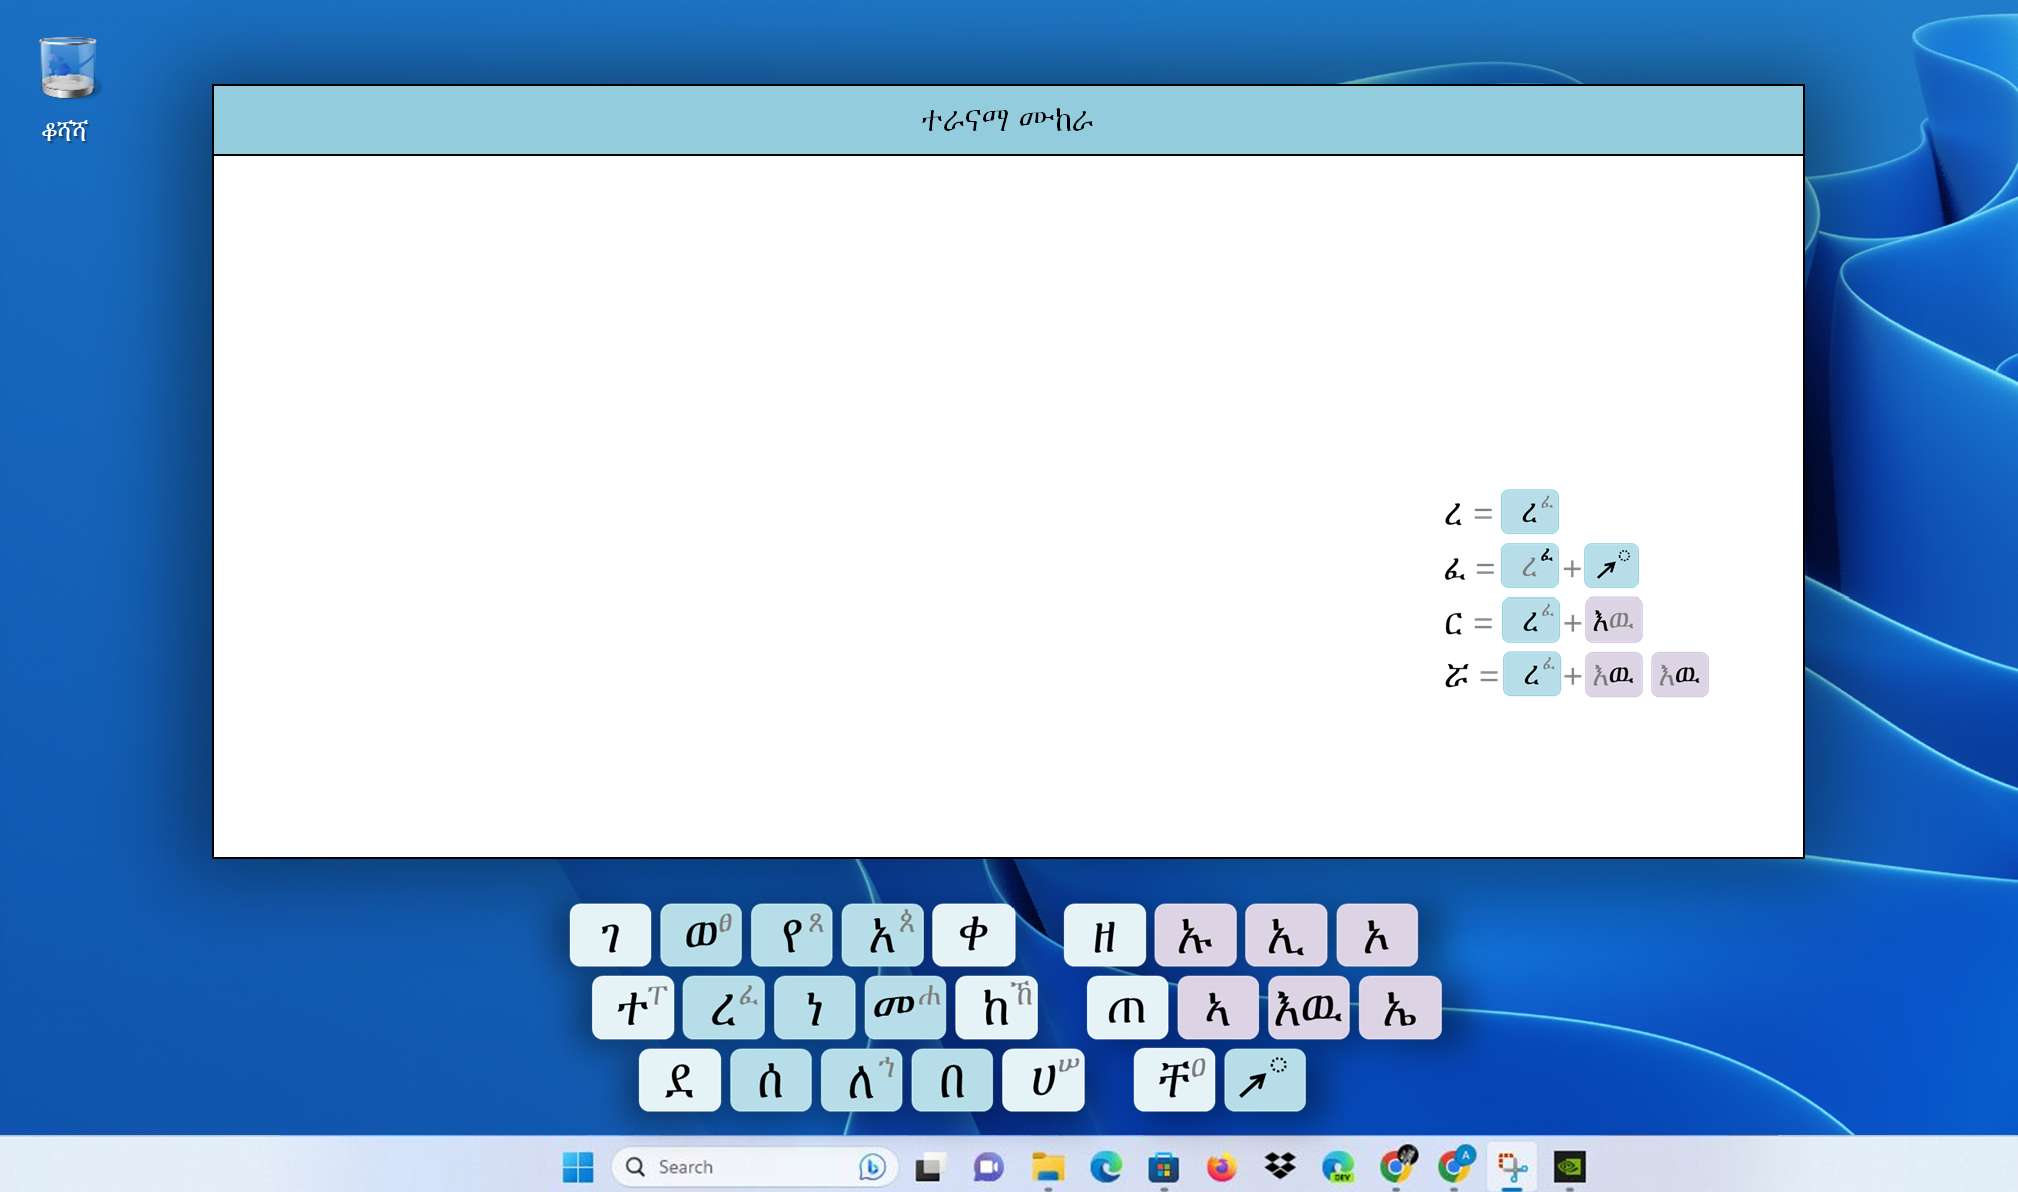
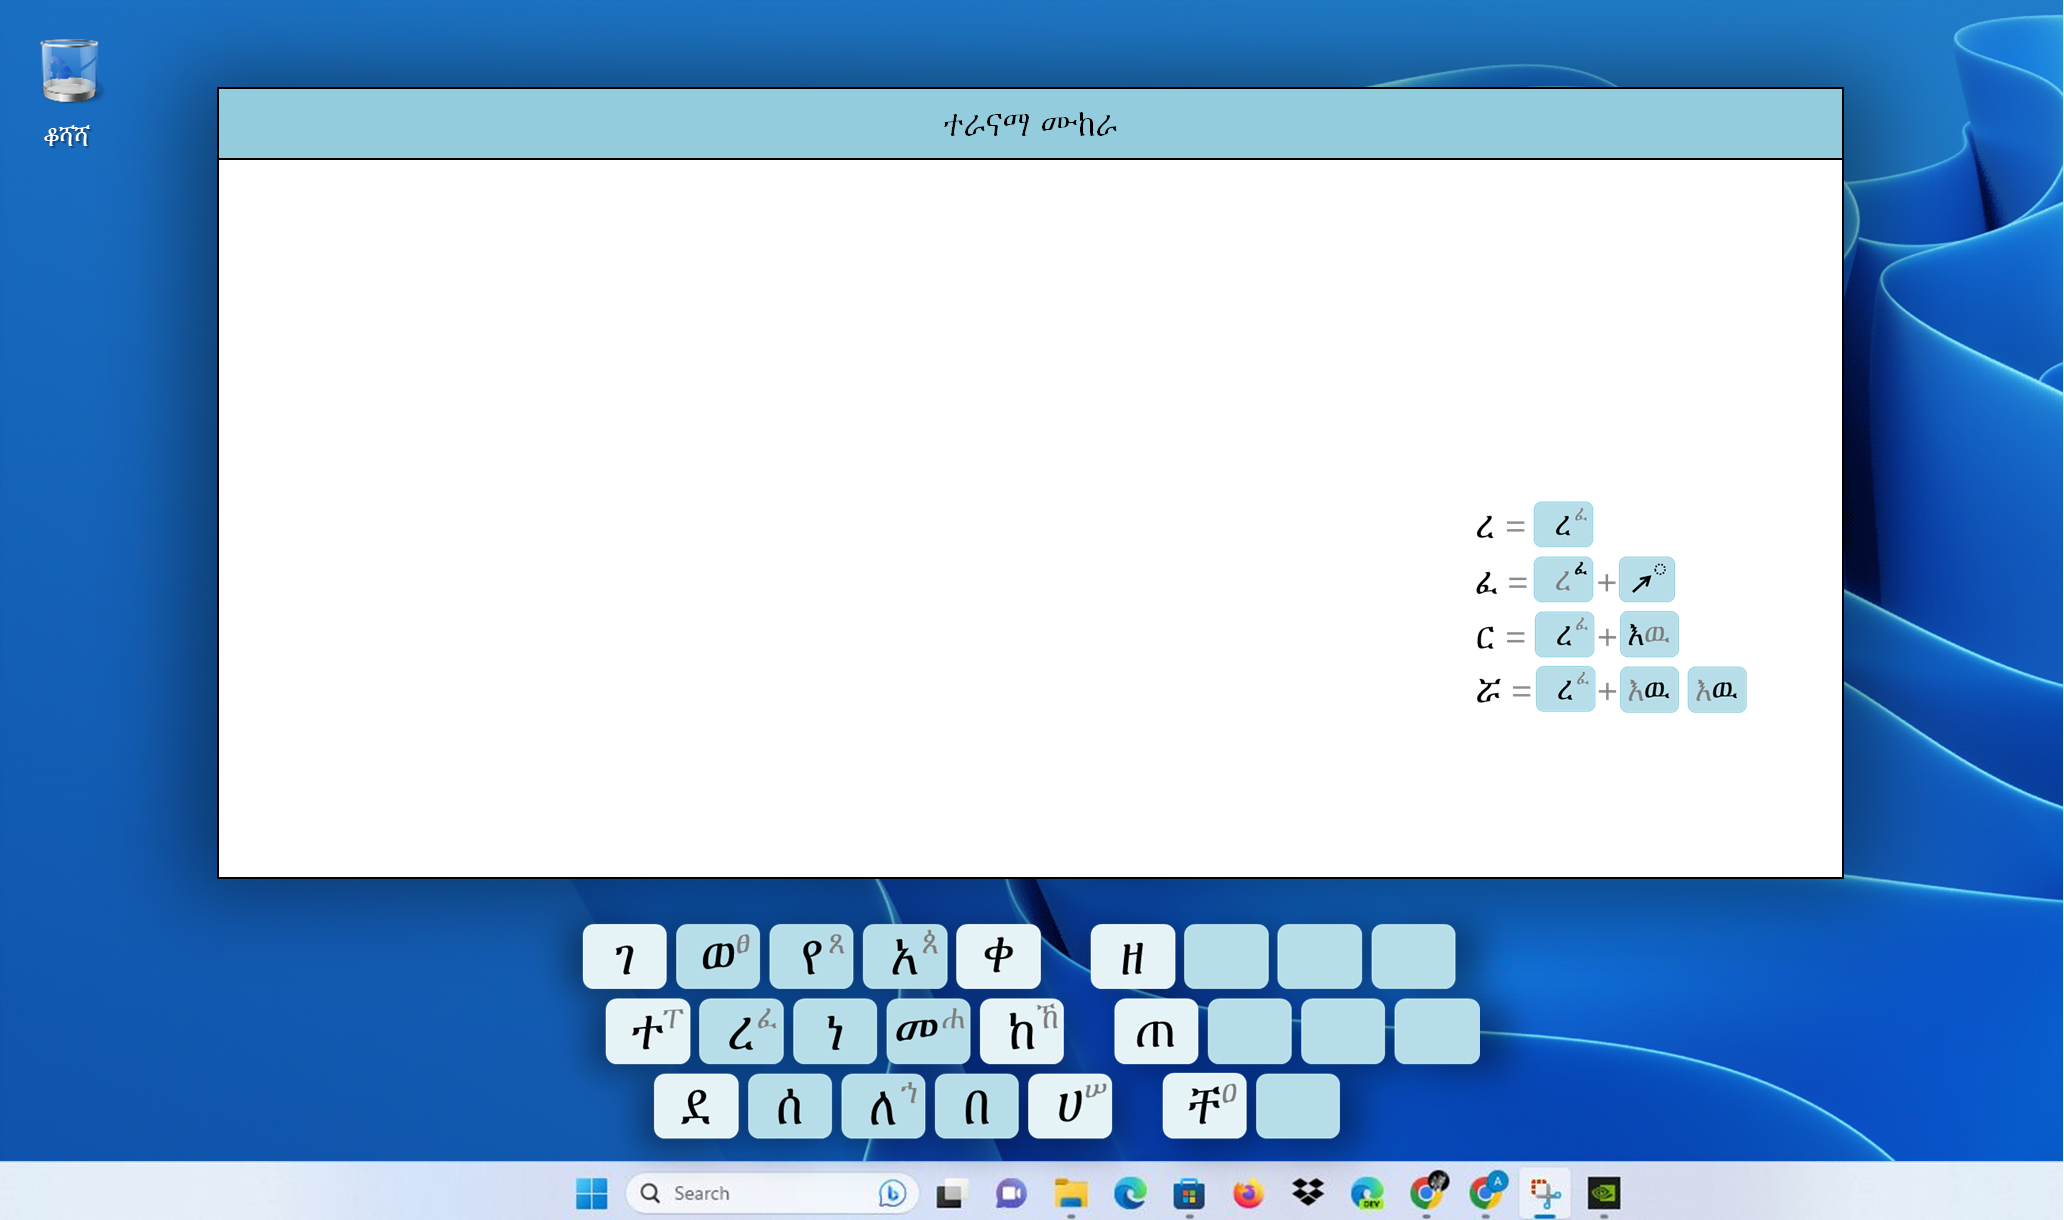
Add files via upload

diff --git a/teranama.html b/teranama.html
@@ -151,6 +151,10 @@ window.addEventListener('resize', fit);
   
 </div>
 
+  <!-- Preview labels overlay container (inside #stage to follow scaling) -->
+  <div id="previewLabels" style="position:absolute;top:0;left:0;width:100%;height:100%;pointer-events:none;z-index:9999;"></div>
+
+
   <textarea id="output" class="overlay" style="top:188px; left:14%; height:220px;"></textarea>
   <div class="overlay" style="bottom:160px; left:50%; transform:translateX(-50%); display:flex; gap:20px;">
     
@@ -419,13 +423,13 @@ const kb = document.getElementById('bgwrap');
 const keyPos = {
   // 1행
   KeyQ:{x:309,y:476}, KeyW:{x:356,y:476}, KeyE:{x:402,y:476}, KeyR:{x:448,y:476},
-  KeyT:{x:494,y:476}, KeyY:{x:561,y:476}, KeyU:{x:607,y:476}, KeyI:{x:652,y:476}, KeyO:{x:698,y:476},
+  KeyT:{x:494,y:476}, KeyY:{x:561,y:476}, KeyU:{x:607,y:476}, KeyI:{x:653,y:476}, KeyO:{x:700,y:476},
   // 2행
   KeyA:{x:320,y:512}, KeyS:{x:367,y:512}, KeyD:{x:413,y:512}, KeyF:{x:460,y:512},
-  KeyG:{x:506,y:512}, KeyH:{x:572,y:512}, KeyJ:{x:618,y:512}, KeyK:{x:664,y:512}, KeyL:{x:709,y:512},
+  KeyG:{x:506,y:512}, KeyH:{x:572,y:512}, KeyJ:{x:618,y:512}, KeyK:{x:665,y:512}, KeyL:{x:711,y:512},
   // 3행
   KeyZ:{x:345,y:549}, KeyX:{x:392,y:549}, KeyC:{x:438,y:549}, KeyV:{x:484,y:549},
-  KeyB:{x:529,y:549}, KeyN:{x:595,y:549}, KeyM:{x:641,y:549},
+  KeyB:{x:529,y:549}, KeyN:{x:596,y:549}, KeyM:{x:643,y:549},
 };
 
 function flashAt(x,y){
@@ -444,6 +448,101 @@ window.addEventListener('keydown', e=>{
   if(!pos) return;
   flashAt(pos.x, pos.y);
 }, true);
+
+// ===== Preview labels with Abyssinica SIL font + NEXT adjusted =====
+(function(){
+  const style = document.createElement('style');
+  style.textContent = `
+    #previewLabels div{
+      font-family:"Abyssinica SIL","Noto Sans Ethiopic",system-ui,-apple-system,Arial,sans-serif !important;
+      font-weight:400 !important;
+    }
+    #preview-NEXT{ position:absolute; transform:translate(-80%,-40%) !important; font-size:22px !important; }
+    #preview-NEXT.default::after{
+      content:''; position:absolute;
+      width:12px; height:12px; border-radius:50%;
+      border:2px dotted #999;
+      top:0px; right:-12px;
+    }`;
+  document.head.appendChild(style);
+
+  const out=document.getElementById('output');
+  function getText(){ return out.classList.contains('placeholder') ? '' : out.value; }
+
+  const keyPos={
+    KeyU:{x:607,y:476}, KeyI:{x:653,y:476}, KeyO:{x:700,y:476},
+    KeyJ:{x:618,y:512}, KeyK:{x:665,y:512}, KeyL:{x:711,y:512},
+    KeyM:{x:643,y:549}
+  };
+  const defaults={KeyU:'ኡ',KeyI:'ኢ',KeyO:'ኦ',KeyJ:'ኣ',KeyK:'እዉ',KeyL:'ኤ',KeyM:'⬈'};
+  const idMap={KeyU:'preview-U',KeyI:'preview-I',KeyO:'preview-O',KeyJ:'preview-J',KeyK:'preview-K',KeyL:'preview-L',KeyM:'preview-NEXT'};
+  const container=document.getElementById('previewLabels');
+  for(const code in keyPos){
+    const {x,y}=keyPos[code];
+    const div=document.createElement('div');
+    div.id=idMap[code];
+    div.style.position='absolute';
+    div.style.left=x+'px'; div.style.top=y+'px';
+    div.style.transform='translate(-50%,-50%)';
+    div.style.fontSize='22px'; div.style.color='#999';
+    div.style.zIndex=9999;
+    div.textContent=defaults[code];
+    if(code==='KeyM') div.classList.add('default');
+    container.appendChild(div);
+  }
+
+  const VOWEL_INDEX={U:1,I:2,J:3,L:4,O:6};
+  const wSeriesBaseMap=new Map(Object.entries({"ገ":"ጐ","ቀ":"ቈ","ቐ":"ቘ","ከ":"ኰ","ኀ":"ኈ"}));
+  const wBaseSet=new Set([...wSeriesBaseMap.values()]);
+  const layoutGroups={Q:["ገ","ጘ"],W:["ወ","ፀ"],E:["የ","ጸ"],R:["አ","ጰ"],T:["ቀ","ቐ"],Y:["ዘ","ዠ"],
+    A:["ተ","ፐ"],S:["ረ","ፈ"],D:["ነ","ኘ"],F:["መ","ሐ"],G:["ከ","ኸ"],H:["ጠ","ጨ"],Z:["ደ","ጀ"],X:["ሰ","ሸ"],C:["ለ","ኀ"],V:["በ","ቨ"],B:["ሀ","ሠ"],N:["ቸ","ዐ"]};
+  const baseToGroup=new Map();for(const arr of Object.values(layoutGroups))for(const ch of arr)baseToGroup.set(ch,arr);
+  const isEth=cp=>cp>=0x1200&&cp<=0x137F;const baseOf=cp=>cp-(cp%8);
+  function lastEth(){const t=getText();const arr=Array.from(t);for(let i=arr.length-1;i>=0;i--){const cp=arr[i].codePointAt(0);if(isEth(cp))return arr[i];}return null;}
+  function endsWS(){return /\s$/.test(getText());}
+  function nextOf(ch){const cp=ch.codePointAt(0);const base=baseOf(cp);const order=cp-base;const baseChar=String.fromCodePoint(base);const group=baseToGroup.get(baseChar);if(!group)return null;const idx=group.indexOf(baseChar);const nextBaseChar=group[(idx+1)%group.length];const nextBase=nextBaseChar.codePointAt(0);if(order===7){const wBase=wSeriesBaseMap.get(nextBaseChar);return wBase?wBase:String.fromCodePoint(nextBase+7);}return String.fromCodePoint(nextBase+order);}
+  function vowelPreview(ch,key){let ord=VOWEL_INDEX[key];const cp=ch.codePointAt(0);const base=baseOf(cp);const order=cp-base;const baseChar=String.fromCodePoint(base);const inW=(order===7)||wBaseSet.has(baseChar);if(inW&&key==='O')ord=5;return String.fromCodePoint(base+ord);}
+  function kPreview(ch){const cp=ch.codePointAt(0);const base=baseOf(cp);const baseChar=String.fromCodePoint(base);const first=String.fromCodePoint(base+5);const wBase=wSeriesBaseMap.get(baseChar);const second=wBase?wBase:String.fromCodePoint(base+7);return first+second;}
+
+  function setLabel(id,text,color,opts){
+    const el=document.getElementById(id); if(!el) return;
+    el.textContent=text; el.style.color=color;
+    if(id==='preview-NEXT'){
+      if(opts && opts.defaultState) el.classList.add('default');
+      else el.classList.remove('default');
+    }
+  }
+
+  function resetPrev(){
+    setLabel('preview-U','ኡ','#999');
+    setLabel('preview-I','ኢ','#999');
+    setLabel('preview-O','ኦ','#999');
+    setLabel('preview-J','ኣ','#999');
+    setLabel('preview-K','እዉ','#999');
+    setLabel('preview-L','ኤ','#999');
+    setLabel('preview-NEXT','⬈','#999',{defaultState:true});
+  }
+  function updatePrev(){
+    const last=lastEth();
+    if(!last||endsWS()){ resetPrev(); return; }
+    setLabel('preview-U',vowelPreview(last,'U'),'#1a73e8');
+    setLabel('preview-I',vowelPreview(last,'I'),'#1a73e8');
+    setLabel('preview-O',vowelPreview(last,'O'),'#1a73e8');
+    setLabel('preview-J',vowelPreview(last,'J'),'#1a73e8');
+    setLabel('preview-L',vowelPreview(last,'L'),'#1a73e8');
+    setLabel('preview-K',kPreview(last),'#1a73e8');
+    setLabel('preview-NEXT',nextOf(last)||'⬈','#1a73e8',{defaultState:false});
+  }
+
+  window.__updatePrev=updatePrev;
+  window.addEventListener('load',resetPrev);
+  function wrap(name){
+    const orig=window[name]; if(typeof orig!=='function') return;
+    window[name]=function(...args){const ret=orig.apply(this,args); try{window.__updatePrev();}catch(_){ } return ret;};
+  }
+  ['onKeyPressLetter','onVowelKey','onKPress','applyVowelIndex','nextTransform','insert','backspace','space','newline'].forEach(wrap);
+  document.addEventListener('keydown',()=>setTimeout(()=>{try{window.__updatePrev();}catch(_){ }},0),true);
+})();
 </script>
 </body>
 </html>
